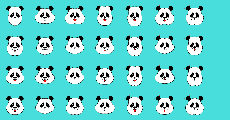
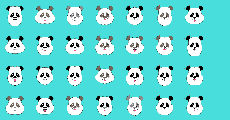
Color options

diff --git a/editor.html b/editor.html
@@ -37,47 +37,47 @@
         <div class="inner" id="controls" height="500px">
             <table>
                 <tr>
-                    <td>topHead_angle</td>
+                    <td>Top Head</td>
                     <td id="slider1Container"></td>
                 </tr>
                 <tr>
-                    <td>upperCheek_angle</td>
+                    <td>Upper Cheek</td>
                     <td id="slider2Container"></td>
                 </tr>
                 <tr>
-                    <td>MF_width</td>
+                    <td>Face Shape</td>
                     <td id="slider3Container"></td>
                 </tr>
                 <tr>
-                    <td>cheek_angle</td>
+                    <td>Cheek</td>
                     <td id="slider4Container"></td>
                 </tr>
                 <tr>
-                    <td>jaw_angle</td>
+                    <td>Jaw</td>
                     <td id="slider5Container"></td>
                 </tr>
                 <tr>
-                    <td>Setting 6</td>
+                    <td>Ears</td>
                     <td id="slider6Container"></td>
                 </tr>
                 <tr>
-                    <td>Setting 7</td>
+                    <td>Eyes</td>
                     <td id="slider7Container"></td>
                 </tr>
                 <tr>
-                    <td>nose_width</td>
+                    <td>Nosewidth</td>
                     <td id="slider8Container"></td>
                 </tr>
                 <tr>
-                    <td>nose_height</td>
+                    <td>Nose height</td>
                     <td id="slider9Container"></td>
                 </tr>
                 <tr>
-                    <td>mouth_width</td>
+                    <td>Mouth width</td>
                     <td id="slider10Container"></td>
                 </tr>
                 <tr>
-                    <td>mouth_height</td>
+                    <td>Mouth height</td>
                     <td id="slider11Container"></td>
                 </tr>
                 <tr>

diff --git a/face_code.js b/face_code.js
@@ -22,22 +22,29 @@
 function myFace(topHead_angle, upperCheek_angle, MF_width, 
                 cheek_angle, jaw_angle, 
                 nose_width, nose_height, 
-                mouth_width, mouth_height){
+                mouth_width, mouth_height, colorValue){
   angleMode(DEGREES);
   rectMode(CENTER);
   strokeCap(ROUND);
   strokeJoin(ROUND);
-  strokeWeight(0.2);
+  strokeWeight(0.1);
+
+  let Black = color('#000000');
+  let Gray = color('#8C8C8C');
+  let Brown = color('#73675C');
+  let DarkBrown = color('#8C4E03');
+
+  let furColor = [Black, Gray, Brown, DarkBrown];
   
   push();
-  fill(0);
+  fill(furColor[colorValue]);
   ears();
   pop();
   
   faceShape(topHead_angle, upperCheek_angle, MF_width, cheek_angle, jaw_angle);
   
   push();
-  fill(0);
+  fill(furColor[colorValue]);
   eyes();
   pop();
 
@@ -45,7 +52,7 @@ function myFace(topHead_angle, upperCheek_angle, MF_width,
   ellipse(2,-0.5,0.5);
 
   push();
-  fill(0);
+  fill(furColor[colorValue]);
   nose(nose_width, nose_height, mouth_width, mouth_height);
   pop();
 
@@ -388,7 +395,7 @@ function nose(nose_width, nose_height, mouth_width, mouth_height){
 
   // Draw mouth
   push();
-  fill(255,0,0);
+  fill('#F25790');
   beginShape();
   vertex(-mouth_width, LN_ed_Y);
   bezierVertex(-mouth_width, mouth_height, mouth_width, mouth_height, mouth_width, LN_ed_Y);

diff --git a/arrangement.js b/arrangement.js
@@ -53,12 +53,6 @@ function draw () {
       let y = h/2 + h*i;
       let x = w/2 + w*j;
      
-        // center face
-        // let eye_value = int(random(2,4));
-        // let tilt_value = random(-45, 45);
-        // let mouth_value = random(3,4);
-        // let is_cyclops = random(0, 100);
-
         let topHead_angle = random(170, 210);
         let upperCheek_angle = random(-30, -70);
         let MF_width = random(5, 7);
@@ -68,6 +62,7 @@ function draw () {
         let nose_height = random(1, 2.2);
         let mouth_width = random(0.5, 1.4);
         let mouth_height = random(4, 7);
+        let colorValue = 0;
 
         // if(is_cyclops < 10) {
         //   eye_value = 1;
@@ -83,15 +78,20 @@ function draw () {
         //   jaw_angle = random(15, 25);
         // }
 
-
         push();
         translate(x, y);
         scale(w/25, h/25);
-        
+        let spinnerValue = random(0, 100);
+        if(spinnerValue < 70){
+          colorValue = 0;
+        } else{
+          colorValue = int(random(1, 3));
+        }
         myFace(topHead_angle, upperCheek_angle, MF_width, 
                 cheek_angle, jaw_angle, 
                 nose_width, nose_height, 
-                mouth_width, mouth_height);
+                mouth_width, mouth_height, 
+                colorValue);
         pop();
       
     }

diff --git a/editor.js b/editor.js
@@ -29,7 +29,7 @@ function setup () {
   slider9 = createSlider(0, 100, 50);
   slider10 = createSlider(0, 100, 50);
   slider11 = createSlider(0, 100, 50);
-  slider12 = createSlider(0, 100, 50);
+  slider12 = createSlider(0, 100, 0);
 
   slider1.parent('slider1Container');
   slider2.parent('slider2Container');
@@ -102,11 +102,13 @@ function draw () {
     let nose_height = map(s9, 0, 100, 1, 2.2);
     let mouth_width = map(s10, 0, 100, 0.5, 1.4);
     let mouth_height = map(s11, 0, 100, 4, 7);
+    let colorValue = int(map(s12, 0, 100, 0, 3));
 
     myFace(topHead_angle, upperCheek_angle, MF_width, 
           cheek_angle, jaw_angle, 
           nose_width, nose_height, 
-          mouth_width, mouth_height);
+          mouth_width, mouth_height, 
+          colorValue);
   }
 
   if (mode == '2') {
@@ -148,10 +150,6 @@ function draw () {
   push();
   strokeWeight(2);
   stroke(255);
-  // point(288,58);
-  // point(672,58);
-  // point(672,442);
-  // point(288,442);
   let mX = int(map(mouseX-480,-480,480,-25,25));
   let mY = int(map(mouseY-250,-250,250,-13,13));
   

diff --git a/README.md b/README.md
@@ -3,4 +3,4 @@
 ## 2023 MDDN342 Assignment 2: Randomised Collections
 **This is where you talk about your project!**
 
->Nose and mouth are drew and parameterized. Both are in one function and the widths and heights can be changed via sliders. Next I will make the eyes and ears changing with discrete variables.
+>Four color options available.
